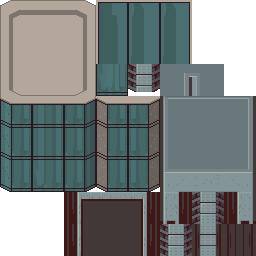
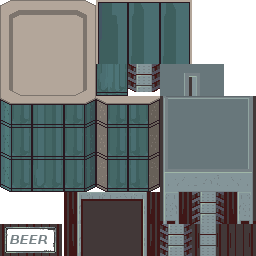
Added the beer store

Changed region(s): [[0.0, 0.875, 0.25, 1.0]]

diff --git a/web/level1.dart b/web/level1.dart
@@ -63,6 +63,10 @@ class Level1 extends Level {
     Map<String, Sprite> houseSprites =
         Level.parseSpriteSheet(house, Level1._houseSpriteSheetData);
 
+    SpriteSheet building = new SpriteSheet("img/Building.png", 32, 32);
+    Map<String, Sprite> buildingSprites =
+        Level.parseSpriteSheet(building, Level1._buildingSpriteSheetData);
+
 
     // Grass layer0
     this.newLayer();
@@ -237,41 +241,41 @@ class Level1 extends Level {
     //this.setSpriteAt(fenceSprites["wireHorizRight"], 7, 5);
     //this.setSpriteAt(fenceSprites["wireHorizLeft"], 7, 8);
     for (int c = 8; c < 11; c++) {
-      this.setSpriteAt(fenceSprites["wireHorizMid"], 7, c);
+      this.setSpriteAt(fenceSprites["wireHorizMid"], 7, c, true);
     }
-    this.setSpriteAt(fenceSprites["wireHorizRight"], 7, 11);
+    this.setSpriteAt(fenceSprites["wireHorizRight"], 7, 11, true);
 
     for (int r = 8; r < 30; r++) {
-      this.setSpriteAt(fenceSprites["wireVertMid"], r, 11);
+      this.setSpriteAt(fenceSprites["wireVertMid"], r, 11, true);
     }
 
     for (int r = 0; r < 30; r++) {
-      this.setSpriteAt(fenceSprites["woodVertMid"], r, 16);
+      this.setSpriteAt(fenceSprites["woodVertMid"], r, 16, true);
     }
 
     for (int r = 0; r < 30; r++) {
-      this.setSpriteAt(fenceSprites["woodVertMid"], r, 21);
+      this.setSpriteAt(fenceSprites["woodVertMid"], r, 21, true);
     }
     for (int r = 0; r < 30; r++) {
-      this.setSpriteAt(fenceSprites["woodVertMid"], r, 25);
+      this.setSpriteAt(fenceSprites["woodVertMid"], r, 25, true);
     }
     for (int r = 0; r < 30; r++) {
-      this.setSpriteAt(fenceSprites["woodVertMid"], r, 29);
+      this.setSpriteAt(fenceSprites["woodVertMid"], r, 29, true);
     }
 
     for (int c = 30; c < 34; c++) {
-      this.setSpriteAt(fenceSprites["woodHorizMid"], 9, c);
+      this.setSpriteAt(fenceSprites["woodHorizMid"], 9, c, true);
     }
-    this.setSpriteAt(fenceSprites["woodHorizRight"], 9, 34);
-    this.setSpriteAt(fenceSprites["woodHorizLeft"], 9, 37);
+    this.setSpriteAt(fenceSprites["woodHorizRight"], 9, 34, true);
+    this.setSpriteAt(fenceSprites["woodHorizLeft"], 9, 37, true);
     for (int c = 38; c < 40; c++) {
-      this.setSpriteAt(fenceSprites["woodHorizMid"], 9, c);
+      this.setSpriteAt(fenceSprites["woodHorizMid"], 9, c, true);
     }
     for (int c = 32; c < 36; c++) {
-      this.setSpriteAt(fenceSprites["woodHorizMid"], 14, c);
+      this.setSpriteAt(fenceSprites["woodHorizMid"], 14, c, true);
     }
-    this.setSpriteAt(fenceSprites["woodHorizRight"], 14, 36);
-    this.setSpriteAt(fenceSprites["woodHorizLeft"], 14, 39);
+    this.setSpriteAt(fenceSprites["woodHorizRight"], 14, 36, true);
+    this.setSpriteAt(fenceSprites["woodHorizLeft"], 14, 39, true);
 
     this.setSpriteAt(aptSprites["apt1TopLeft"], 0, 0);
     this.setSpriteAt(aptSprites["apt1TopRight"], 0, 1);
@@ -400,6 +404,43 @@ class Level1 extends Level {
     this.newLayer();
     this.setSpriteAt(houseSprites["stairsTop"], 5, 36);
     this.setSpriteAt(houseSprites["stairsBot"], 6, 36);
+
+
+
+
+
+    // BEER STORE
+
+    this.setSpriteAt(buildingSprites["storeWallMidLeft"], 28, 0, true);
+    this.setSpriteAt(buildingSprites["storeWallMidMid"], 28, 1, true);
+    this.setSpriteAt(buildingSprites["storeWallMidMid"], 28, 2, true);
+    this.setSpriteAt(buildingSprites["doorBotLeft"], 28, 3, true);
+    this.setSpriteAt(buildingSprites["doorBotRight"], 28, 4, true);
+    this.setSpriteAt(buildingSprites["storeWallMidRight"], 28, 5, true);
+    this.setSpriteAt(buildingSprites["storeWallMidLeft"], 27, 0, true);
+    this.setSpriteAt(buildingSprites["beerSignLeft"], 27, 1, true);
+    this.setSpriteAt(buildingSprites["beerSignRight"], 27, 2, true);
+    this.setSpriteAt(buildingSprites["doorTopLeft"], 27, 3, true);
+    this.setSpriteAt(buildingSprites["doorTopRight"], 27, 4, true);
+    this.setSpriteAt(buildingSprites["storeWallMidRight"], 27, 5, true);
+    this.setSpriteAt(buildingSprites["storeWallTopLeft"], 26, 0, true);
+    this.setSpriteAt(buildingSprites["storeWallTopMid"], 26, 1, true);
+    this.setSpriteAt(buildingSprites["storeWallTopMid"], 26, 2, true);
+    this.setSpriteAt(buildingSprites["storeWallTopMid"], 26, 3, true);
+    this.setSpriteAt(buildingSprites["storeWallTopMid"], 26, 4, true);
+    this.setSpriteAt(buildingSprites["storeWallTopRight"], 26, 5, true);
+    this.setSpriteAt(buildingSprites["storeRoofLeft"], 25, 0, true);
+    this.setSpriteAt(buildingSprites["storeRoofMid"], 25, 1, true);
+    this.setSpriteAt(buildingSprites["storeRoofMid"], 25, 2, true);
+    this.setSpriteAt(buildingSprites["storeRoofMid"], 25, 3, true);
+    this.setSpriteAt(buildingSprites["storeRoofMid"], 25, 4, true);
+    this.setSpriteAt(buildingSprites["storeRoofRight"], 25, 5, true);
+    this.setSpriteAt(buildingSprites["storeRoofBackLeft"], 24, 0, true);
+    this.setSpriteAt(buildingSprites["storeRoofBackMid"], 24, 1, true);
+    this.setSpriteAt(buildingSprites["storeRoofBackMid"], 24, 2, true);
+    this.setSpriteAt(buildingSprites["storeRoofBackMid"], 24, 3, true);
+    this.setSpriteAt(buildingSprites["storeRoofBackMid"], 24, 4, true);
+    this.setSpriteAt(buildingSprites["storeRoofBackRight"], 24, 5, true);
 
 
     this.roadPath1 = new Path([
@@ -662,5 +703,28 @@ class Level1 extends Level {
     "woodHorizMid": [32, 64],
     "woodVertMid": [0, 96],
     "woodVertBot": [32, 96],
+  };
+
+  static final _buildingSpriteSheetData = {
+    "storeWallMidMid": [224, 224],
+    "beerSignLeft": [0, 224],
+    "beerSignRight": [32, 224],
+    "storeWallMidLeft": [160, 192],
+    "storeWallMidRight": [224, 192],
+    "storeWallTopLeft": [160, 160],
+    "storeWallTopMid": [192, 160],
+    "storeWallTopRight": [224, 160],
+    "storeRoofLeft": [160, 128],
+    "storeRoofMid": [192, 128],
+    "storeRoofRight": [224, 128],
+    "storeRoofBackLeft": [160, 96],
+    "storeRoofBackMid": [192, 96],
+    "storeRoofBackRight": [224, 96],
+    "doorBotLeft": [64, 224],
+    "doorBotMid": [96, 224],
+    "doorBotRight": [128, 224],
+    "doorTopLeft": [64, 192],
+    "doorTopMid": [96, 192],
+    "doorTopRight": [128, 192],
   };
 }

diff --git a/web/beer_run.dart b/web/beer_run.dart
@@ -70,7 +70,7 @@ void main() {
 
   level = new Level1(canvasManager, canvasDrawer);
 
-  player = new Player(level, DIR_DOWN, 32 * 1, 32 * 28);
+  player = new Player(level, DIR_DOWN, 32 * 1, 32 * 29);
       //16, level.tileHeight * level.rows - 64);
   player.setControlComponent(keyboard);
   player.setDrawingComponent(drawer);
